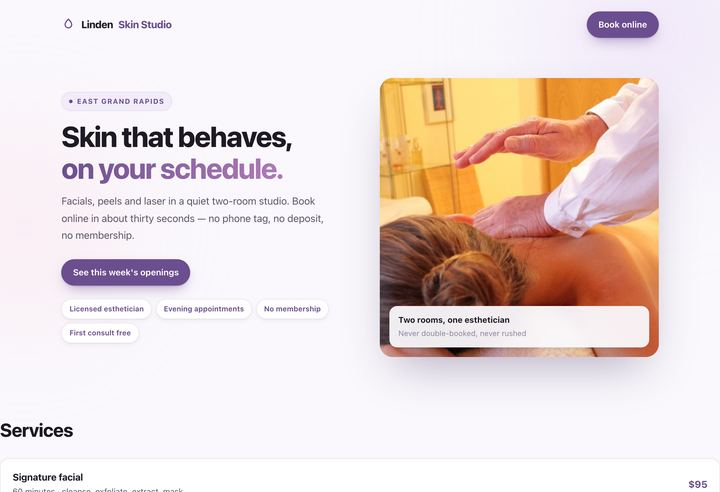
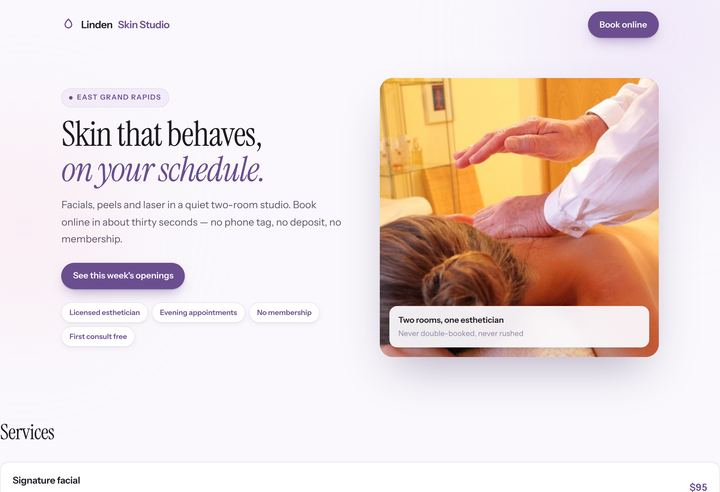
Give each demo a reason to exist — three signature interactions, not three skins
Matthew: "make sure the example sites represent the product we will put
out, everything needs to be top of its class", "we could even use those
as templates later", "make sure to make them interactive too."

The failure of the previous pass was that all three were the same site in
three colourways. Better photographs did not fix that, because the thing
missing was a POINT OF VIEW — the one interaction that makes a visitor
remember the business. So each now has an element chosen from what THAT
customer actually wants, not from what looked good on the last one.

  ROOFING — an instant estimator. Two sliders, a real range in four
  seconds. Every contractor site makes you book a visit to learn whether
  this is a $9k or a $40k problem, which loses everyone not ready to
  talk. Verified: 2,000 sq ft shingle $9,000-$12,600, 3,500 metal
  $24,400-$34,200.

  RESTAURANT — a menu that visibly changes by night, with the morning's
  haul named above it. "The menu changes when the produce does" is this
  restaurant's whole claim and a single static list quietly contradicts
  it. Verified: 6 of 6 nights have a distinct mains list.

  SALON — a booking flow that answers. Pick a service, watch duration and
  price update; the button stays DISABLED until a time is chosen, then
  names the appointment. "No phone tag" is the claim; a list of opening
  hours is not that. Verified end to end including the confirmation.

Three typefaces, deliberately different: Bricolage Grotesque for the
[…]

diff --git a/examples/salon/index.html b/examples/salon/index.html
@@ -4,11 +4,15 @@
 <meta name="description" content="A demonstration site built by Kerr &amp; Company showing an appointment-led service business. Not a real business.">
 <meta name="robots" content="noindex, follow">
 <link rel="icon" href="/favicon.ico" sizes="48x48">
+<link rel="preconnect" href="https://fonts.googleapis.com">
+<link rel="preconnect" href="https://fonts.gstatic.com" crossorigin>
+<link href="https://fonts.googleapis.com/css2?family=Instrument+Sans:wght@400;500;600&family=Instrument+Serif:ital@0;1&display=swap" rel="stylesheet">
 <style>
   *,*::before,*::after{box-sizing:border-box}
   :root{--ink:#1d1a23;--ink-2:#5c5568;--ink-3:#8b839a;--line:#eae5f0;--paper:#faf8fc;--card:#fff;
     --plum:#6b4e8f;--plum-2:#523a70;--soft:#f2ecf9;--blush:#f6eef2;
-    --sans:ui-sans-serif,-apple-system,BlinkMacSystemFont,"Segoe UI",Inter,sans-serif;
+    --sans:'Instrument Sans',ui-sans-serif,-apple-system,BlinkMacSystemFont,'Segoe UI',sans-serif;
+    --display:'Instrument Serif',ui-serif,Georgia,serif;
     --shadow-s:0 1px 2px rgba(29,26,35,.05),0 3px 10px rgba(29,26,35,.045);
     --shadow-m:0 2px 6px rgba(29,26,35,.05),0 18px 44px -14px rgba(29,26,35,.18);
     --shadow-l:0 34px 76px -26px rgba(66,44,92,.4)}
@@ -38,7 +42,8 @@
     letter-spacing:.1em;text-transform:uppercase;color:var(--plum);background:var(--soft);
     border:1px solid #e6dbf3;padding:.34rem .74rem;border-radius:100px;margin-bottom:1rem}
   .eyebrow::before{content:"";width:6px;height:6px;border-radius:50%;background:var(--plum)}
-  h1{font-size:clamp(2rem,5vw,3rem);line-height:1.1;letter-spacing:-.035em;margin:0 0 .9rem;font-weight:780}
+  h1{font-family:var(--display);font-size:clamp(2.4rem,6vw,3.6rem);line-height:1.02;
+    letter-spacing:-.02em;margin:0 0 .9rem;font-weight:400}
   h1 span{background:linear-gradient(98deg,var(--plum) 0%,#b07bb8 100%);-webkit-background-clip:text;
     background-clip:text;-webkit-text-fill-color:transparent}
   .lede{color:var(--ink-2);font-size:1.05rem;margin:0 0 1.6rem;max-width:42ch}
@@ -59,7 +64,7 @@
   .shelf img{width:100%;height:auto;display:block;aspect-ratio:16/11;object-fit:cover}
   .shelf h2{margin-top:0}
   @media(max-width:780px){.shelf{grid-template-columns:1fr}}
-  h2{font-size:clamp(1.4rem,3.2vw,1.95rem);letter-spacing:-.028em;margin:0 0 1.3rem;font-weight:760}
+  h2{font-family:var(--display);font-size:clamp(1.6rem,3.6vw,2.2rem);letter-spacing:-.016em;margin:0 0 1.3rem;font-weight:400}
   .svc{display:grid;gap:.7rem}
   .row{display:flex;align-items:center;justify-content:space-between;gap:1rem;background:var(--card);
     border:1px solid var(--line);border-radius:14px;padding:1.05rem 1.25rem;box-shadow:var(--shadow-s);
@@ -82,6 +87,32 @@
     color:var(--ink-3);font-size:.85rem;line-height:1.7}
   footer a{color:var(--ink-2)}
   @media(max-width:780px){.hero{grid-template-columns:1fr}.art{order:-1;aspect-ratio:16/11}}
+
+  .bk{display:grid;grid-template-columns:1.15fr .85fr;gap:clamp(1.2rem,3vw,2.2rem);align-items:start}
+  .bk-step{margin-bottom:1.6rem}
+  .bk-n{display:inline-grid;place-items:center;width:22px;height:22px;border-radius:50%;
+    background:var(--plum);color:#fff;font-size:.72rem;font-weight:700;margin-right:.5rem}
+  .bk-step h3{display:inline;font-size:.98rem;letter-spacing:-.012em}
+  .bk-opts{display:flex;flex-wrap:wrap;gap:.5rem;margin-top:.9rem}
+  .bk-opts button{min-height:44px;padding:.6rem 1rem;border-radius:11px;border:1px solid var(--line);
+    background:var(--card);font:inherit;font-size:.88rem;font-weight:600;color:var(--ink-2);
+    cursor:pointer;transition:border-color .16s,color .16s,background .16s,transform .16s}
+  .bk-opts button:hover{border-color:var(--plum);color:var(--plum);transform:translateY(-1.5px)}
+  .bk-opts button.on{border-color:var(--plum);background:var(--plum);color:#fff}
+  .bk-times button{font-variant-numeric:tabular-nums}
+  .bk-card{background:var(--card);border:1px solid var(--line);border-radius:18px;
+    padding:clamp(1.2rem,3vw,1.6rem);box-shadow:var(--shadow-m);position:sticky;top:1rem}
+  .bk-lab{font-size:.74rem;font-weight:700;letter-spacing:.1em;text-transform:uppercase;color:var(--ink-3)}
+  .bk-card strong{display:block;font-family:var(--display);font-size:1.5rem;margin:.3rem 0 .1rem;font-weight:400}
+  .bk-when{margin:0 0 1rem;font-size:.88rem;color:var(--plum);font-weight:600;min-height:1.3em}
+  .bk-card dl{display:grid;grid-template-columns:auto 1fr;gap:.4rem 1rem;margin:0 0 1.2rem;
+    padding-top:1rem;border-top:1px solid var(--line);font-size:.88rem}
+  .bk-card dt{color:var(--ink-3)}
+  .bk-card dd{margin:0;text-align:right;font-weight:650;font-variant-numeric:tabular-nums}
+  .bk-card .book{width:100%;justify-content:center;border:0;font:inherit;font-weight:640;font-size:.92rem}
+  .bk-card .book:disabled{background:var(--line);color:var(--ink-3);cursor:not-allowed;box-shadow:none;transform:none}
+  .bk-fine{font-size:.76rem;color:var(--ink-3);margin:.9rem 0 0;line-height:1.5}
+  @media(max-width:820px){.bk{grid-template-columns:1fr}.bk-card{position:static}}
 </style>
 
 <p class="demo">A <strong>demonstration build</strong> by Kerr &amp; Company — not a real business, and not a client.
@@ -101,7 +132,7 @@
   <div class="hero">
     <div>
       <span class="eyebrow">East Grand Rapids</span>
-      <h1>Skin that behaves,<br><span>on your schedule.</span></h1>
+      <h1>Skin that behaves,<br><em style="font-style:italic;color:var(--plum)">on your schedule.</em></h1>
       <p class="lede">Facials, peels and laser in a quiet two-room studio. Book online in about
         thirty seconds — no phone tag, no deposit, no membership.</p>
       <a class="book" href="#book">See this week's openings</a>
@@ -136,17 +167,44 @@
   </section>
 
   <section id="book">
-    <h2>Book online</h2>
-    <div class="cal">
-      <div class="day">Thursday 27 August</div>
-      <div class="mon">Six openings left this week</div>
-      <div class="slots">
-        <button type="button">9:00</button><button type="button">10:30</button>
-        <button type="button">1:00</button><button type="button">2:30</button>
-        <button type="button">4:00</button><button type="button">5:30</button>
+    <h2>Book in about thirty seconds</h2>
+    <!-- THE SIGNATURE ELEMENT. "No phone tag" is this studio's entire claim, and a
+         static list of opening hours quietly contradicts it. Pick a service, pick a
+         time, and the card answers immediately with duration, price and what to
+         expect — which is the whole experience being sold, demonstrated rather
+         than described. -->
+    <div class="bk">
+      <div class="bk-step">
+        <span class="bk-n">1</span><h3>What are you booking?</h3>
+        <div class="bk-opts" id="bkSvc" role="radiogroup" aria-label="Service">
+          <button role="radio" aria-checked="true" class="on" data-n="Signature facial" data-m="60" data-p="95">Signature facial</button>
+          <button role="radio" aria-checked="false" data-n="Chemical peel" data-m="45" data-p="140">Chemical peel</button>
+          <button role="radio" aria-checked="false" data-n="Laser session" data-m="30" data-p="75">Laser session</button>
+          <button role="radio" aria-checked="false" data-n="Consultation" data-m="20" data-p="0">Consultation</button>
+        </div>
       </div>
-      <p class="note">On a real build these are live openings from the studio's calendar and booking one
-        sends a confirmation by text. <strong>This is a demonstration — the times are not real.</strong></p>
+      <div class="bk-step">
+        <span class="bk-n">2</span><h3>When suits you?</h3>
+        <div class="bk-opts bk-times" id="bkTime" role="radiogroup" aria-label="Time">
+          <button role="radio" aria-checked="false" data-t="Thu 27 Aug · 9:00">Thu 9:00</button>
+          <button role="radio" aria-checked="false" data-t="Thu 27 Aug · 13:00">Thu 1:00</button>
+          <button role="radio" aria-checked="false" data-t="Thu 27 Aug · 17:30">Thu 5:30</button>
+          <button role="radio" aria-checked="false" data-t="Fri 28 Aug · 10:30">Fri 10:30</button>
+          <button role="radio" aria-checked="false" data-t="Fri 28 Aug · 16:00">Fri 4:00</button>
+          <button role="radio" aria-checked="false" data-t="Sat 29 Aug · 11:00">Sat 11:00</button>
+        </div>
+      </div>
+      <aside class="bk-card" aria-live="polite">
+        <span class="bk-lab">Your appointment</span>
+        <strong id="bkSvcOut">Signature facial</strong>
+        <p id="bkWhen" class="bk-when">Pick a time to the left</p>
+        <dl><dt>Takes</dt><dd id="bkMin">60 minutes</dd>
+            <dt>Price</dt><dd id="bkPrice">$95</dd>
+            <dt>Deposit</dt><dd>None</dd></dl>
+        <button class="book" id="bkGo" disabled>Choose a time first</button>
+        <p class="bk-fine">Demonstration only. On a real build this writes to the studio's
+          calendar and texts a confirmation.</p>
+      </aside>
     </div>
   </section>
 </div>
@@ -156,3 +214,40 @@
   <a href="/">Kerr &amp; Company</a>, Grand Rapids. Sites like this start at $999.
   <a href="/#services">See pricing &rarr;</a></p>
 </div></footer>
+<script>
+(function () {
+  var svc = document.getElementById('bkSvc'), time = document.getElementById('bkTime');
+  if (!svc || !time) return;
+  var out = { n: document.getElementById('bkSvcOut'), w: document.getElementById('bkWhen'),
+              m: document.getElementById('bkMin'), p: document.getElementById('bkPrice'),
+              go: document.getElementById('bkGo') };
+  var picked = null;
+  function pick(group, btn) {
+    [].forEach.call(group.querySelectorAll('button'), function (x) {
+      x.classList.toggle('on', x === btn); x.setAttribute('aria-checked', x === btn);
+    });
+  }
+  function draw() {
+    var b = svc.querySelector('button.on');
+    out.n.textContent = b.dataset.n;
+    out.m.textContent = b.dataset.m + ' minutes';
+    out.p.textContent = +b.dataset.p ? '$' + b.dataset.p : 'Free';
+    out.w.textContent = picked || 'Pick a time to the left';
+    out.go.disabled = !picked;
+    out.go.textContent = picked ? 'Book ' + b.dataset.n.toLowerCase() : 'Choose a time first';
+  }
+  svc.addEventListener('click', function (e) {
+    var b = e.target.closest('button'); if (!b) return; pick(svc, b); draw();
+  });
+  time.addEventListener('click', function (e) {
+    var b = e.target.closest('button'); if (!b) return;
+    pick(time, b); picked = b.dataset.t; draw();
+  });
+  out.go.addEventListener('click', function () {
+    var b = svc.querySelector('button.on');
+    out.go.outerHTML = '<p class="bk-done"><strong>That would be booked.</strong><br>' +
+      b.dataset.n + ' — ' + picked + '. On a real build you would already have the text.</p>';
+  });
+  draw();
+})();
+</script>

diff --git a/examples/restaurant/index.html b/examples/restaurant/index.html
@@ -4,12 +4,15 @@
 <meta name="description" content="A demonstration site built by Kerr &amp; Company showing what a restaurant's site looks like. Not a real business.">
 <meta name="robots" content="noindex, follow">
 <link rel="icon" href="/favicon.ico" sizes="48x48">
+<link rel="preconnect" href="https://fonts.googleapis.com">
+<link rel="preconnect" href="https://fonts.gstatic.com" crossorigin>
+<link href="https://fonts.googleapis.com/css2?family=Fraunces:opsz,wght@9..144,300;9..144,500&family=Inter:wght@400;500;600;700&display=swap" rel="stylesheet">
 <style>
   *,*::before,*::after{box-sizing:border-box}
   :root{--ink:#191512;--ink-2:#574d43;--ink-3:#8a7d6f;--line:#e5ddd1;--paper:#faf6ef;--card:#fff;
     --olive:#3f5c46;--olive-2:#2d4433;--ember:#bf6b34;--sand:#f2e9db;
-    --serif:ui-serif,"Iowan Old Style",Georgia,"Times New Roman",serif;
-    --sans:ui-sans-serif,-apple-system,BlinkMacSystemFont,"Segoe UI",Inter,sans-serif;
+    --serif:'Fraunces',ui-serif,'Iowan Old Style',Georgia,serif;
+    --sans:'Inter',ui-sans-serif,-apple-system,BlinkMacSystemFont,'Segoe UI',sans-serif;
     --shadow-l:0 30px 70px -26px rgba(25,21,18,.42)}
   html{-webkit-text-size-adjust:100%;scroll-behavior:smooth}
   body{margin:0;background:var(--paper);color:var(--ink);font:16px/1.72 var(--serif);
@@ -33,7 +36,8 @@
   .field .a{width:560px;height:560px;top:-220px;left:-180px;background:radial-gradient(circle,#d9e3d0 0%,rgba(217,227,208,0) 70%)}
   .field .b{width:520px;height:520px;top:60px;right:-200px;background:radial-gradient(circle,#f3d9c2 0%,rgba(243,217,194,0) 70%)}
   .hero{position:relative;z-index:2;text-align:center;padding:clamp(2.4rem,6vw,4rem) 0 clamp(1.8rem,4vw,2.6rem)}
-  h1{font-size:clamp(2.2rem,6.2vw,3.6rem);line-height:1.08;margin:0 0 1.1rem;font-weight:400;letter-spacing:-.022em}
+  h1{font-size:clamp(2.3rem,6.4vw,3.8rem);line-height:1.06;margin:0 0 1.1rem;font-weight:300;
+    letter-spacing:-.026em;font-optical-sizing:auto}
   h1 em{font-style:italic;color:var(--olive)}
   .lede{color:var(--ink-2);max-width:50ch;margin:0 auto 1.9rem;font-size:1.08rem}
   .btn{display:inline-flex;align-items:center;min-height:46px;padding:.8rem 1.7rem;background:var(--olive);
@@ -77,6 +81,15 @@
     color:var(--ink-3);font:400 .85rem/1.7 var(--sans);text-align:center}
   footer a{color:var(--ink-2)}
   @media(max-width:620px){.plates{grid-template-columns:1fr}.plate{aspect-ratio:16/9}.btn.ghost{margin:.5rem 0 0}}
+
+  .days{display:flex;flex-wrap:wrap;gap:.4rem;justify-content:center;margin:0 0 1.1rem}
+  .days button{min-height:44px;padding:.55rem 1.05rem;border-radius:100px;border:1px solid var(--line);
+    background:var(--card);font:600 .78rem/1 var(--sans);letter-spacing:.1em;text-transform:uppercase;
+    color:var(--ink-3);cursor:pointer;transition:border-color .16s,color .16s,background .16s}
+  .days button.on{border-color:var(--olive);color:#fff;background:var(--olive)}
+  .haul{text-align:center;font-size:.85rem;color:var(--ink-3);margin:0 0 1.8rem;
+    font-family:var(--sans);min-height:1.3em}
+  .haul b{color:var(--ember);font-weight:600}
 </style>
 
 <p class="demo">A <strong>demonstration build</strong> by Kerr &amp; Company — not a real restaurant, and not a client.
@@ -108,20 +121,22 @@
 
   <section id="menu">
     <h2>This week</h2>
-    <p class="sub">Changes Tuesday · always short</p>
-    <div class="menu">
-      <div><h3>To start</h3>
-        <div class="item"><b>Charred bread, cultured butter</b><i></i><span>7</span></div>
-        <div class="item"><b>Little gems, anchovy, lemon</b><i></i><span>13</span></div>
-        <div class="item"><b>Squash, brown butter, sage</b><i></i><span>14</span></div></div>
-      <div><h3>Mains</h3>
-        <div class="item"><b>Wood-fired chicken for two</b><i></i><span>38</span></div>
-        <div class="item"><b>Lake trout, fennel, dill</b><i></i><span>29</span></div>
-        <div class="item"><b>Cavatelli, pork ragù</b><i></i><span>26</span></div></div>
-      <div><h3>After</h3>
-        <div class="item"><b>Olive oil cake</b><i></i><span>11</span></div>
-        <div class="item"><b>Affogato</b><i></i><span>9</span></div></div>
+    <p class="sub">The kitchen writes it Tuesday · always short</p>
+
+    <!-- THE SIGNATURE ELEMENT. Every restaurant site has a menu; almost none show
+         that it CHANGES, which is the entire claim this restaurant makes. Six
+         tabs, six genuinely different menus, and the header names what came in
+         that day — so the positioning is demonstrated rather than asserted. -->
+    <div class="days" role="tablist" aria-label="Menu by night">
+      <button role="tab" aria-selected="true"  class="on" data-d="0">Tue</button>
+      <button role="tab" aria-selected="false" data-d="1">Wed</button>
+      <button role="tab" aria-selected="false" data-d="2">Thu</button>
+      <button role="tab" aria-selected="false" data-d="3">Fri</button>
+      <button role="tab" aria-selected="false" data-d="4">Sat</button>
+      <button role="tab" aria-selected="false" data-d="5">Sun</button>
     </div>
+    <p class="haul" id="haul" aria-live="polite"></p>
+    <div class="menu" id="menuBody"></div>
   </section>
 
   <section id="hours">
@@ -142,3 +157,61 @@
   <a href="/">Kerr &amp; Company</a>, Grand Rapids. Sites like this start at $999.
   <a href="/#services">See pricing &rarr;</a></p>
 </div></footer>
+<script>
+/* Six different menus, because "the menu changes when the produce does" is the
+   claim the whole restaurant is built on and a single static list quietly
+   contradicts it. The haul line names what arrived that morning — the reason the
+   menu is what it is, which is the part a static menu can never show. */
+(function () {
+  var DAYS = [
+    { haul: "In this morning: <b>squash, little gems, lake trout</b>",
+      s: [["Charred bread, cultured butter",7],["Little gems, anchovy, lemon",13],["Squash, brown butter, sage",14]],
+      m: [["Lake trout, fennel, dill",29],["Wood-fired chicken for two",38],["Cavatelli, pork ragù",26]],
+      a: [["Olive oil cake",11],["Affogato",9]] },
+    { haul: "In this morning: <b>chicory, guinea fowl, first apples</b>",
+      s: [["Chicory, walnut, blue cheese",12],["Charred bread, cultured butter",7],["Chicken liver, apple",13]],
+      m: [["Guinea fowl, bread sauce",31],["Cavatelli, pork ragù",26],["Squash, sage, brown butter",22]],
+      a: [["Apple tart",11],["Affogato",9]] },
+    { haul: "In this morning: <b>mussels, leeks, late tomatoes</b>",
+      s: [["Mussels, cider, thyme",15],["Tomato, basil, sourdough",12],["Charred bread, cultured butter",7]],
+      m: [["Hake, leeks, brown butter",28],["Wood-fired chicken for two",38],["Rigatoni, tomato, ricotta",24]],
+      a: [["Olive oil cake",11],["Panna cotta",10]] },
+    { haul: "In this morning: <b>ribeye, girolles, cavolo nero</b>",
+      s: [["Girolles on toast",14],["Little gems, anchovy, lemon",13],["Charred bread, cultured butter",7]],
+      m: [["Ribeye for two, girolles",64],["Lake trout, fennel, dill",29],["Cavolo nero, chilli, pasta",24]],
+      a: [["Chocolate pot",11],["Affogato",9]] },
+    { haul: "In this morning: <b>turbot, artichokes, figs</b>",
+      s: [["Artichoke, lemon, pecorino",14],["Figs, prosciutto, honey",15],["Charred bread, cultured butter",7]],
+      m: [["Turbot on the bone, for two",72],["Wood-fired chicken for two",38],["Cavatelli, pork ragù",26]],
+      a: [["Fig leaf ice cream",11],["Olive oil cake",11]] },
+    { haul: "Sunday: <b>one roast, until it goes</b>",
+      s: [["Charred bread, cultured butter",7],["Little gems, anchovy, lemon",13]],
+      m: [["Roast sirloin, all the trimmings",34],["Roast squash, all the trimmings",26]],
+      a: [["Sticky toffee",11],["Affogato",9]] },
+  ];
+  var tabs = document.querySelector('.days'), body = document.getElementById('menuBody'),
+      haul = document.getElementById('haul');
+  if (!tabs || !body) return;
+  function rows(list) {
+    return list.map(function (r) {
+      return '<div class="item"><b>' + r[0] + '</b><i></i><span>' + r[1] + '</span></div>';
+    }).join('');
+  }
+  function draw(i) {
+    var d = DAYS[i];
+    haul.innerHTML = d.haul;
+    body.innerHTML =
+      '<div><h3>To start</h3>' + rows(d.s) + '</div>' +
+      '<div><h3>Mains</h3>'    + rows(d.m) + '</div>' +
+      '<div><h3>After</h3>'    + rows(d.a) + '</div>';
+  }
+  tabs.addEventListener('click', function (e) {
+    var b = e.target.closest('button'); if (!b) return;
+    [].forEach.call(tabs.querySelectorAll('button'), function (x) {
+      x.classList.toggle('on', x === b); x.setAttribute('aria-selected', x === b);
+    });
+    draw(+b.dataset.d);
+  });
+  draw(0);
+})();
+</script>
